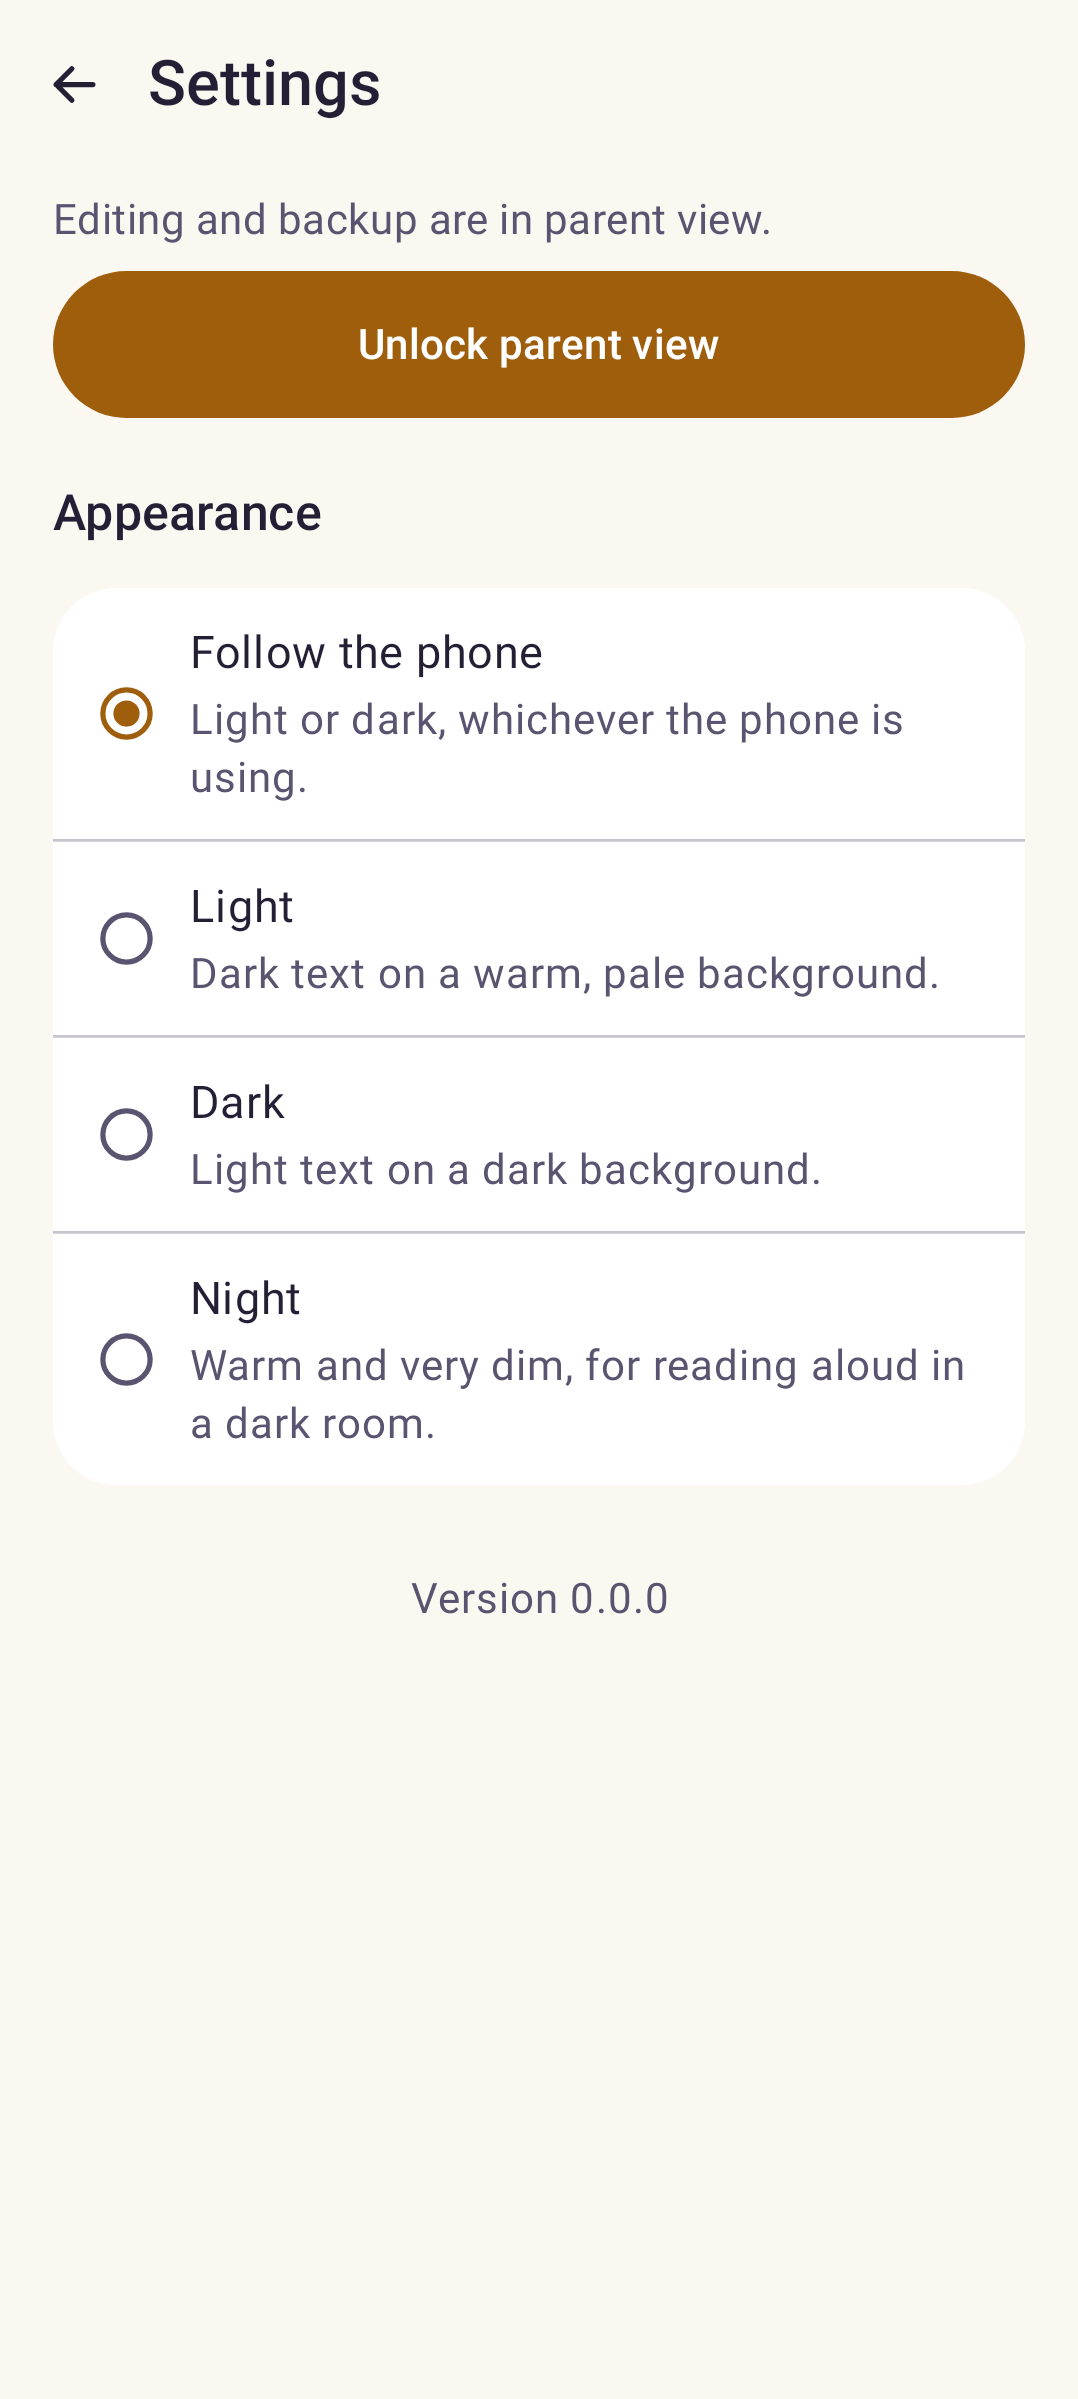
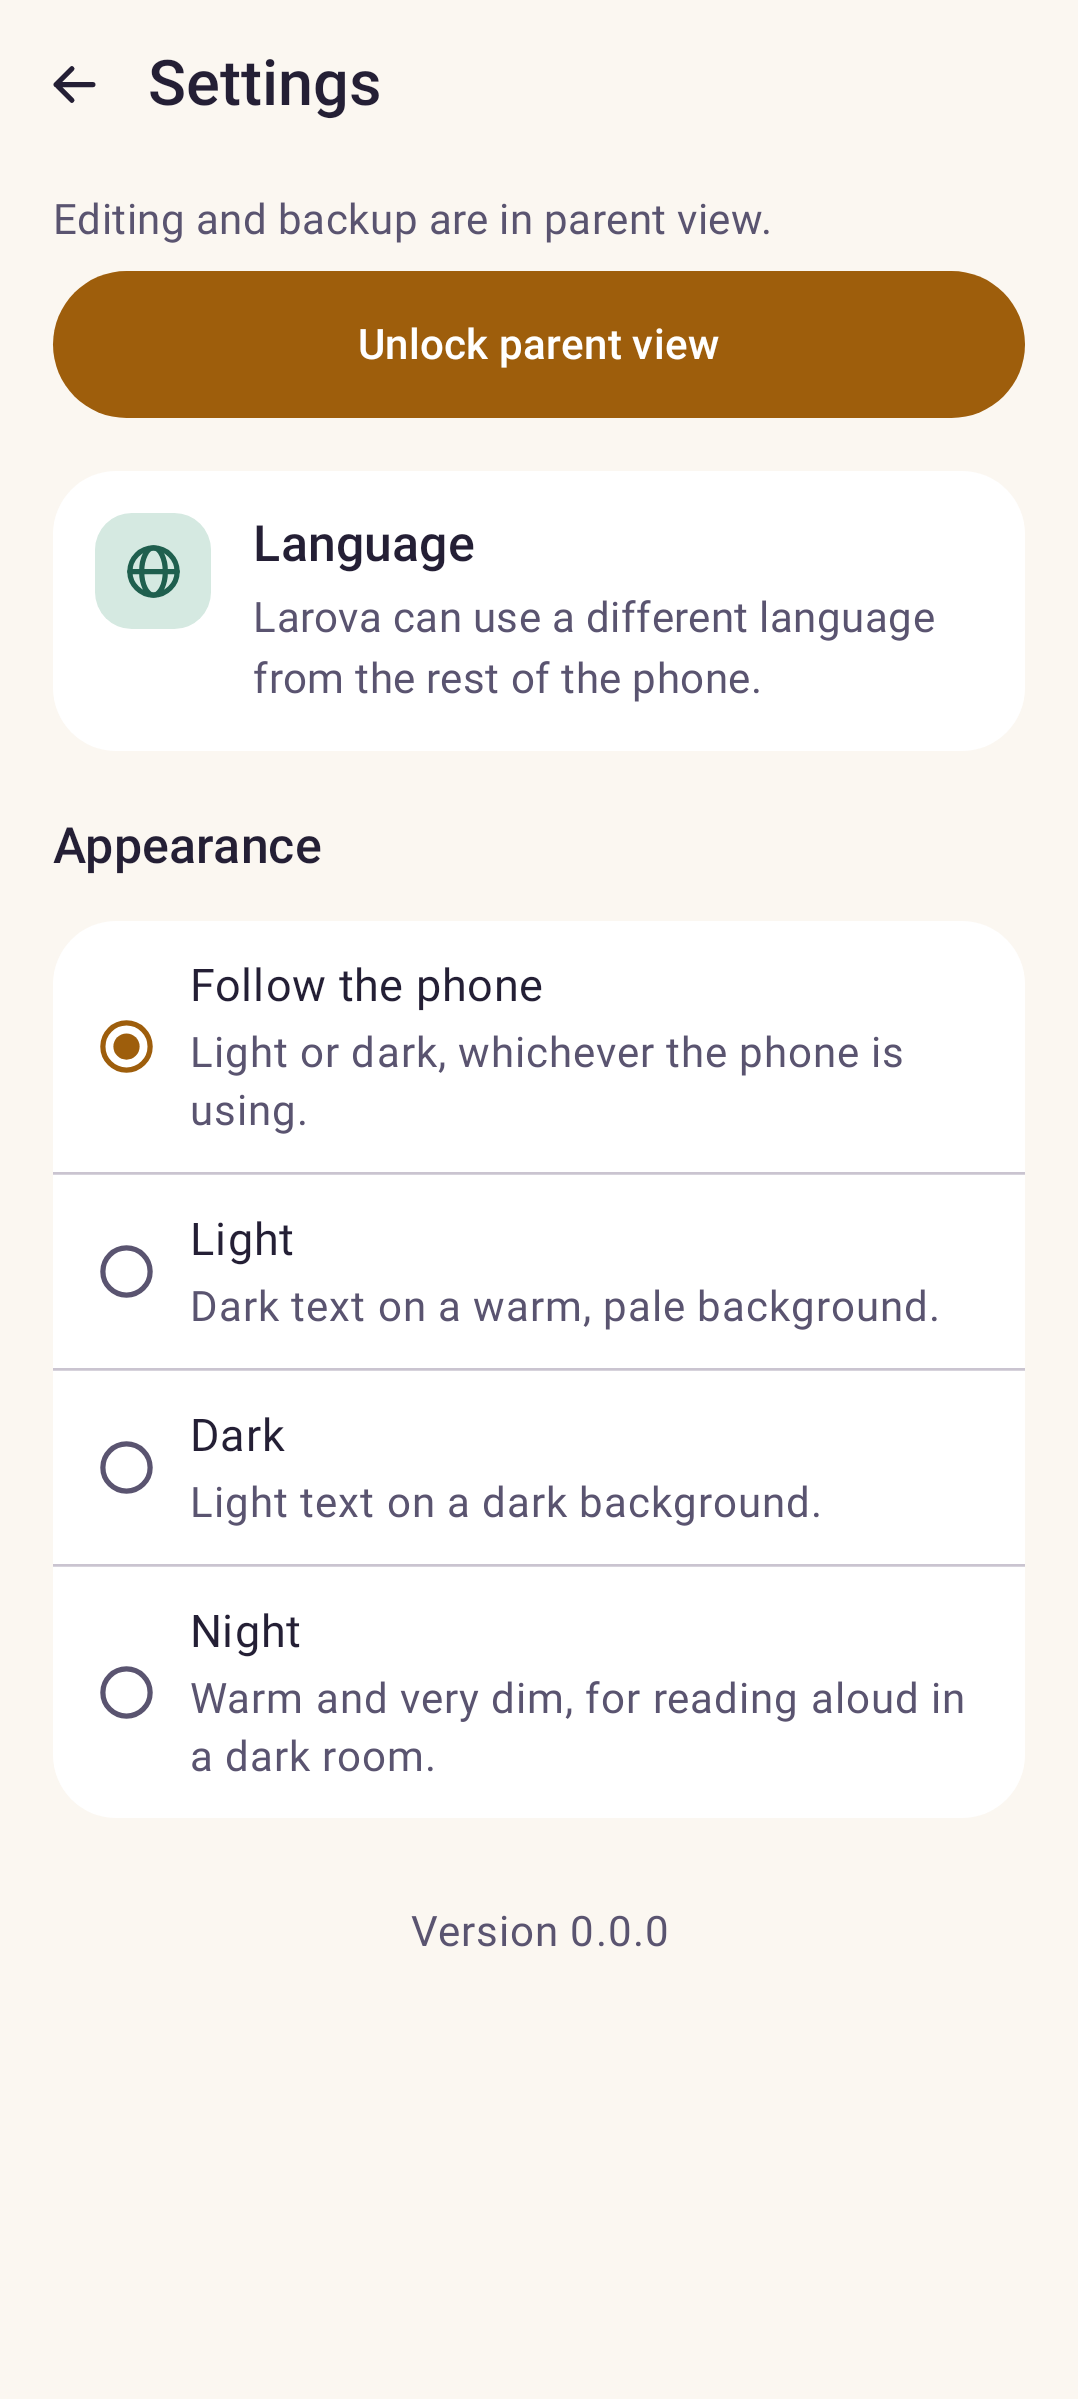
feat(settings): a way into the app's language setting
The per-app language is the feature docs/localization.md calls a headline
one and the reason the fourteen translations exist: a caregiver who reads
no German still has to understand the back arrow. Nothing pointed at it —
the strings had been sitting in strings.xml unused since M1.

A handover rather than a picker, for the same reason Larova never dials:
Android's own screen already does the list, the search, the system-default
entry and the restart, and knows about locales_config.xml without being
told twice. Absent below Android 13, where there is no screen to open.

Not behind parent view. The person who needs another language is the one
holding the phone, and they cannot be asked for a PIN to read the app in
a language they understand.

Changed region(s): [[0.0612, 0.1851, 0.8878, 0.7403], [0.398, 0.802, 0.5204, 0.8328], [0.0918, 0.6786, 0.1224, 0.7095]]

diff --git a/feature/settings/src/commonMain/kotlin/app/larova/feature/settings/SettingsScreen.kt b/feature/settings/src/commonMain/kotlin/app/larova/feature/settings/SettingsScreen.kt
@@ -37,6 +37,7 @@ import app.larova.core.ui.component.LarovaScaffold
 import app.larova.core.ui.icon.Lock
 import app.larova.core.ui.icon.TileSymbol
 import app.larova.core.ui.icon.Transfer
+import app.larova.core.ui.icon.Translate
 import app.larova.core.ui.icon.image
 import app.larova.core.ui.resources.Res
 import app.larova.core.ui.resources.purchase_body
@@ -56,6 +57,8 @@ import app.larova.core.ui.resources.settings_appearance_night
 import app.larova.core.ui.resources.settings_appearance_night_hint
 import app.larova.core.ui.resources.settings_appearance_system
 import app.larova.core.ui.resources.settings_appearance_system_hint
+import app.larova.core.ui.resources.settings_language
+import app.larova.core.ui.resources.settings_language_hint
 import app.larova.core.ui.resources.settings_support
 import app.larova.core.ui.resources.settings_support_count
 import app.larova.core.ui.resources.settings_support_hint
@@ -141,6 +144,11 @@ fun SettingsScreen(
      * no store behind it, which is the only build that shows the address at all.
      */
     onOpenSupportPage: () -> Unit,
+    /**
+     * Opens Android's own language screen for Larova. Null on a phone with no such screen — below
+     * Android 13 the app's language is the phone's, and there is nothing to send anybody to.
+     */
+    onOpenLanguageSettings: (() -> Unit)?,
     supportCount: Int,
     /** Opens Play's sheet for the contribution. Null in a build with no store behind it. */
     onSupport: (() -> Unit)?,
@@ -170,6 +178,23 @@ fun SettingsScreen(
                 onLock = onLock,
                 onChangePin = onChangePin,
             )
+
+            // Not behind parent view, and that is the whole point of it: the person who needs
+            // another language is the caregiver holding the phone, and they cannot be asked for a
+            // PIN to read the app in a language they understand. It is also why this is a handover
+            // rather than a picker — Android's own screen does the list, the search and the
+            // restart, and knows about `locales_config.xml` without being told twice.
+            if (onOpenLanguageSettings != null) {
+                ActionCard(
+                    icon = Translate,
+                    title = stringResource(Res.string.settings_language),
+                    description = stringResource(Res.string.settings_language_hint),
+                    onClick = onOpenLanguageSettings,
+                    // Sage: not sand, sky or rose, which are the three cards below it.
+                    token = TileColor.SAGE,
+                    modifier = Modifier.padding(vertical = 8.dp),
+                )
+            }
 
             // Backup used to live behind the start screen's overflow menu, which is the last place
             // somebody looks for it — a menu is where things go when nobody has decided where they

diff --git a/core/ui/src/commonMain/kotlin/app/larova/core/ui/icon/LarovaIcons.kt b/core/ui/src/commonMain/kotlin/app/larova/core/ui/icon/LarovaIcons.kt
@@ -256,6 +256,52 @@ val Lock: ImageVector by lazy {
     }
 }
 
+/**
+ * A globe, for the language row in settings and for handing a tile to a translation app.
+ *
+ * Deliberately a globe and not the two-letter glyph other apps use: a person looking for their own
+ * language is the one person who cannot be assumed to read the two letters, whatever alphabet they
+ * are set in. Three strokes rather than a filled shape, so it sits at the same weight as the rest
+ * of this file at 24dp.
+ *
+ * Not mirrored. A sphere has no direction to reverse, and `autoMirror` on something symmetrical is
+ * how a mirrored clock face ends up shipping.
+ *
+ * Drawn here rather than added to `core/ui/icons/` — a file name in that folder becomes a frozen
+ * tile-symbol key, and this is a control, not something a parent can put on a tile.
+ */
+val Translate: ImageVector by lazy {
+    uiIcon("Translate") {
+        // The sphere, as two half-arcs the way `knob` draws its circle.
+        path(
+            stroke = SolidColor(Color.Black),
+            strokeLineWidth = STROKE,
+            strokeLineCap = StrokeCap.Round,
+            strokeLineJoin = StrokeJoin.Round,
+        ) {
+            moveTo(12f, 3f)
+            arcToRelative(9f, 9f, 0f, true, true, 0f, 18f)
+            arcToRelative(9f, 9f, 0f, true, true, 0f, -18f)
+            close()
+        }
+        // The equator, and a meridian narrow enough that the two read as a sphere rather than as
+        // a target. The meridian is the stroke that does the work: a circle with one line across
+        // it is a "no entry" sign.
+        line(3f, 12f, 21f, 12f)
+        path(
+            stroke = SolidColor(Color.Black),
+            strokeLineWidth = STROKE,
+            strokeLineCap = StrokeCap.Round,
+            strokeLineJoin = StrokeJoin.Round,
+        ) {
+            moveTo(12f, 3f)
+            arcToRelative(4.5f, 9f, 0f, true, true, 0f, 18f)
+            arcToRelative(4.5f, 9f, 0f, true, true, 0f, -18f)
+            close()
+        }
+    }
+}
+
 /** Every icon above is drawn in the same 24×24 viewport at the same weight. */
 private const val STROKE = 2f
 

diff --git a/core/platform/src/commonMain/kotlin/app/larova/core/platform/ExternalActions.kt b/core/platform/src/commonMain/kotlin/app/larova/core/platform/ExternalActions.kt
@@ -1,9 +1,9 @@
 package app.larova.core.platform
 
 /**
- * The three things Larova hands to another app.
+ * The things Larova hands to another app.
  *
- * Both are handovers, never actions the app completes itself. That is a deliberate limit rather
+ * All of them are handovers, never actions the app completes itself. That is a deliberate limit rather
  * than a shortcut: an app that dials by itself needs the `CALL_PHONE` permission, turns a mistaken
  * tap into a real call, and starts to look like something that alerts emergency services. Handing
  * the number to the phone app with the dialler open is harmless if triggered by accident and needs
@@ -28,4 +28,23 @@ interface ExternalActions {
      * throwing on a phone whose apps have simply been updated.
      */
     fun openApp(packageName: String)
+
+    /**
+     * Whether this phone has a per-app language screen to send somebody to.
+     *
+     * Android grew one in 13; below that the app's language is the phone's and there is nothing to
+     * open. Asked rather than assumed, because the answer decides whether the row exists at all —
+     * a row that opens nothing is worse than no row.
+     */
+    val canOpenAppLanguageSettings: Boolean
+
+    /**
+     * Opens Android's own language screen for Larova.
+     *
+     * A handover like the rest, and for the same reason: the list of languages, the search, the
+     * "system default" entry and the restart are all work Android already does properly, and a
+     * picker written here would be a second, worse copy of it that has to be kept in step with
+     * `locales_config.xml`.
+     */
+    fun openAppLanguageSettings()
 }

diff --git a/core/platform/src/androidMain/kotlin/app/larova/core/platform/AndroidExternalActions.kt b/core/platform/src/androidMain/kotlin/app/larova/core/platform/AndroidExternalActions.kt
@@ -4,6 +4,8 @@ import android.content.ActivityNotFoundException
 import android.content.Context
 import android.content.Intent
 import android.net.Uri
+import android.os.Build
+import android.provider.Settings
 import app.larova.core.domain.model.isOpenableUrl
 import app.larova.core.domain.model.sanitizePhoneNumber
 
@@ -37,6 +39,25 @@ class AndroidExternalActions(private val context: Context) : ExternalActions {
         // will be showing that instead of a button, so there is nothing to report here.
         val intent = context.packageManager.getLaunchIntentForPackage(packageName) ?: return
         launch(intent)
+    }
+
+    /**
+     * `ACTION_APP_LOCALE_SETTINGS` arrived in Android 13. The constant itself is a compile-time
+     * string and is safe to name at any minSdk; what does not exist below 13 is the screen.
+     */
+    override val canOpenAppLanguageSettings: Boolean
+        get() = Build.VERSION.SDK_INT >= Build.VERSION_CODES.TIRAMISU
+
+    override fun openAppLanguageSettings() {
+        if (!canOpenAppLanguageSettings) return
+        // `package:` rather than an extra: this is the documented way to name which app's languages
+        // the screen should show, and without it the intent opens the phone's whole language list.
+        launch(
+            Intent(
+                Settings.ACTION_APP_LOCALE_SETTINGS,
+                Uri.fromParts("package", context.packageName, null),
+            ),
+        )
     }
 
     private fun launch(intent: Intent) {

diff --git a/app/src/main/kotlin/app/larova/navigation/LarovaNavHost.kt b/app/src/main/kotlin/app/larova/navigation/LarovaNavHost.kt
@@ -75,6 +75,8 @@ fun LarovaNavHost(
     onSupported: () -> Unit,
     onSupportUnavailable: () -> Unit,
     onPrepareCall: (String) -> Unit,
+    /** Null on a phone with no per-app language screen; the settings row is then absent. */
+    onOpenLanguageSettings: (() -> Unit)?,
     onOpenUrl: (String) -> Unit,
     onOpenApp: (String) -> Unit,
     openCardId: String? = null,
@@ -377,6 +379,7 @@ fun LarovaNavHost(
                 // permission is involved: the URL is handed to whatever app owns http, and this
                 // one never resolves it.
                 onOpenSupportPage = { onOpenUrl(SUPPORT_URL) },
+                onOpenLanguageSettings = onOpenLanguageSettings,
                 supportCount = supportCount,
                 onSupport = support,
                 supportMessage = supportMessage,

diff --git a/app/src/testDebug/kotlin/app/larova/settings/SettingsContentTest.kt b/app/src/testDebug/kotlin/app/larova/settings/SettingsContentTest.kt
@@ -226,6 +226,7 @@ class SettingsContentTest {
         entitlement: Entitlement,
         onCheckPurchases: (() -> Unit)? = {},
         onOpenSupportPage: () -> Unit = {},
+        onOpenLanguageSettings: (() -> Unit)? = {},
         unlockCheck: UnlockCheck = UnlockCheck.Idle,
         supportCount: Int = 0,
         onSupport: (() -> Unit)? = {},
@@ -248,6 +249,7 @@ class SettingsContentTest {
                     onDismissUnlockCheck = {},
                     onBuyUnlock = {},
                     onOpenSupportPage = onOpenSupportPage,
+                    onOpenLanguageSettings = onOpenLanguageSettings,
                     supportCount = supportCount,
                     onSupport = onSupport,
                     supportMessage = supportMessage,

diff --git a/app/src/testDebug/kotlin/app/larova/screenshot/ScreensScreenshotTest.kt b/app/src/testDebug/kotlin/app/larova/screenshot/ScreensScreenshotTest.kt
@@ -130,6 +130,7 @@ abstract class ScreensScreenshotTest : ScreenshotTest() {
                 onDismissUnlockCheck = {},
                 onBuyUnlock = {},
                 onOpenSupportPage = {},
+                onOpenLanguageSettings = {},
                 supportCount = 0,
                 onSupport = null,
                 supportMessage = null,
@@ -158,6 +159,7 @@ abstract class ScreensScreenshotTest : ScreenshotTest() {
                 onDismissUnlockCheck = {},
                 onBuyUnlock = {},
                 onOpenSupportPage = {},
+                onOpenLanguageSettings = {},
                 // Twice already: the count is the interesting state, not the empty one.
                 supportCount = 2,
                 onSupport = {},

diff --git a/app/src/main/kotlin/app/larova/MainActivity.kt b/app/src/main/kotlin/app/larova/MainActivity.kt
@@ -94,6 +94,10 @@ private fun LarovaApp(openCardId: String? = null) {
             onSupported = viewModel::onSupported,
             onSupportUnavailable = viewModel::onSupportUnavailable,
             onPrepareCall = actions::prepareCall,
+            // Null below Android 13, where there is no screen to open — which is what makes the
+            // settings row absent rather than present and inert.
+            onOpenLanguageSettings = actions::openAppLanguageSettings
+                .takeIf { actions.canOpenAppLanguageSettings },
             onOpenUrl = actions::openUrl,
             onOpenApp = actions::openApp,
             openCardId = openCardId,

diff --git a/CHANGELOG.md b/CHANGELOG.md
@@ -12,6 +12,12 @@ docs-only changes do not belong here.
 
 ## [Unreleased]
 
+### Added
+- A Language row in the settings, for the person holding the phone. It opens Android’s own
+  language screen for Larova, where you can set the app to a different language from the rest
+  of the phone — so a caregiver can read the buttons in their own language without changing
+  anything else. Needs Android 13 or newer; on older phones the row is not shown.
+
 ## [0.5.2] - 2026-09-04
 
 ### Fixed
